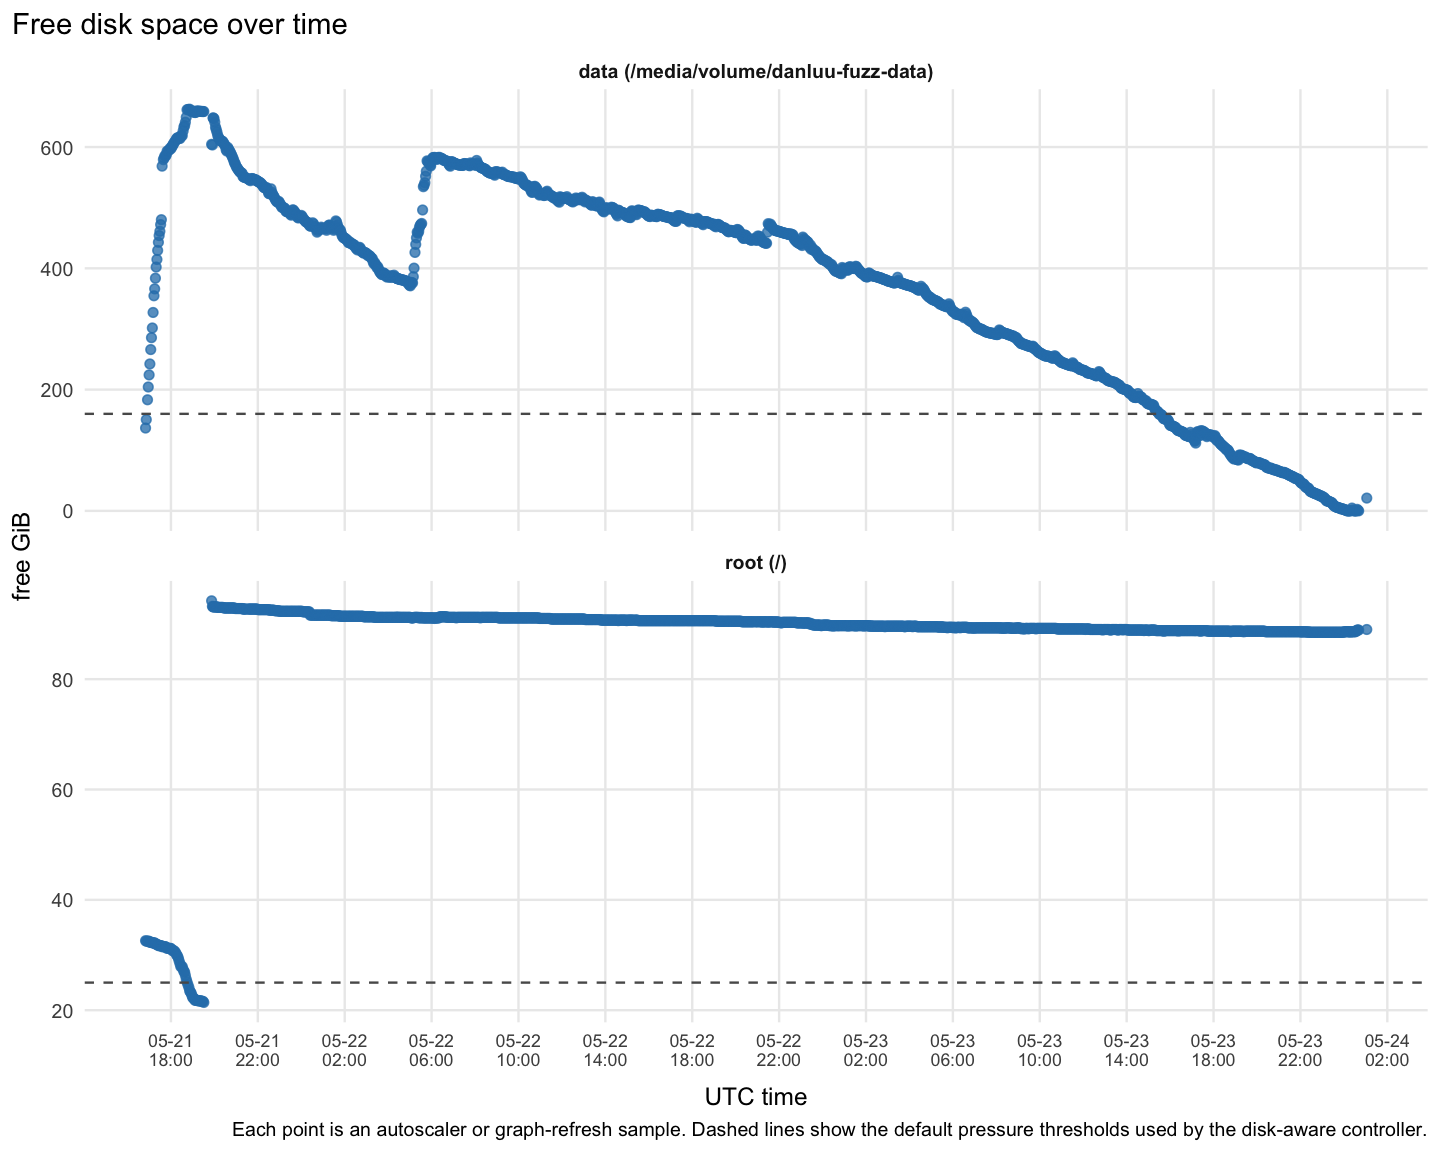
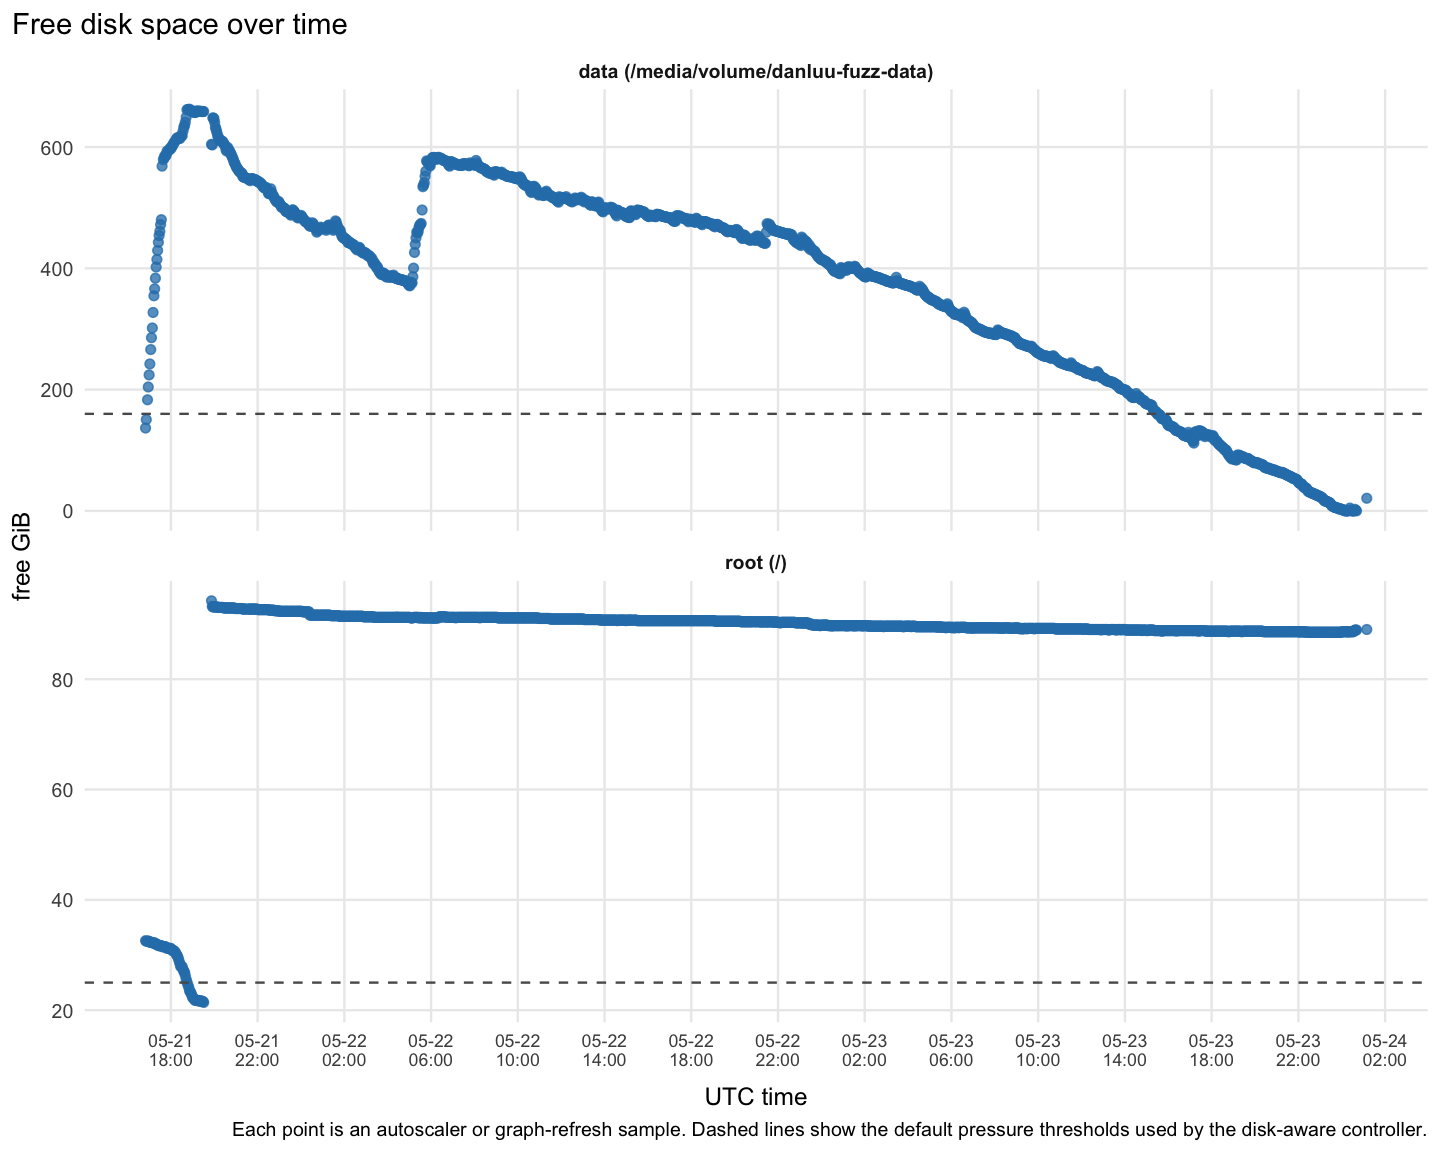
Refresh Jetstream fuzz trend report

diff --git a/docs/explanations/architecture/rtc-jetstream2-fuzz-trend-analysis-20260515.md b/docs/explanations/architecture/rtc-jetstream2-fuzz-trend-analysis-20260515.md
@@ -1,6 +1,6 @@
 # RTC Jetstream2 fuzz trend analysis
 
-Snapshot generated: `2026-05-24T01:03:54Z`
+Snapshot generated: `2026-05-24T01:09:54Z`
 
 This report summarizes the Jetstream2 RTC fuzzing, coverage-guidance,
 resource, and PR-progress logs. The summarized CSVs and plots are committed
@@ -57,7 +57,7 @@ measured product duplicate/noise rate.
 Resources remain constrained. Latest CPU utilization is `8.20%`, with
 `0.59%` iowait. Latest load averages are `8.24`, `7.86`, and `13.40` on
 `64` logical CPUs, with `0` blocked tasks. Root has `89.0GiB` free and the
-data volume has `21.1GiB` free while `99.4%` used.
+data volume has `20.8GiB` free while `99.4%` used.
 
 The latest graph-counted fuzzing mix is still browser/e2e-heavy and remains
 below the plotted `24`-lane persona-loop floor: `19` browser/e2e lanes across
@@ -157,7 +157,7 @@ finishes.
 
 The disk graph tracks both root and the mounted data volume. Root pressure is
 stable at `89.0GiB` free and `42.2%` used; the data volume is now at
-`21.1GiB` free and `99.4%` used in the latest sample. That is no longer a
+`20.8GiB` free and `99.4%` used in the latest sample. That is no longer a
 hard-zero free-space sample, but output-size budgeting remains the dominant
 live resource constraint.
 
@@ -227,7 +227,7 @@ PR07C owner-matrix work from current-head green owner evidence with
 `product_owned_rows=0`. It also notes the fresh coverage-guided root had `11`
 groups still starting and `0` running at `2026-05-24T00:39:20Z`, and observed
 severe disk pressure at feedback time. The refreshed mix graph has `19`
-browser/e2e is-latest lanes and the latest resource graph has `21.1GiB` free
+browser/e2e is-latest lanes and the latest resource graph has `20.8GiB` free
 on a `99.4%` used data volume; treat that as continued evidence for
 disk-constrained, bounded-lane operation rather than broad expansion.
 
@@ -558,7 +558,7 @@ strong product evidence.
 The resource picture is constrained but still producing output: latest CPU
 utilization is `8.20%`, iowait is `0.59%`, one-minute load is `8.24` on
 `64` logical CPUs with `0` blocked tasks, and the data volume is `99.4%`
-used with `21.1GiB` free. Optional browser admission should still respect
+used with `20.8GiB` free. Optional browser admission should still respect
 load, iowait, and output-volume pressure.
 
 The graph-counted fuzzing mix is browser/e2e-heavy but below the plotted
